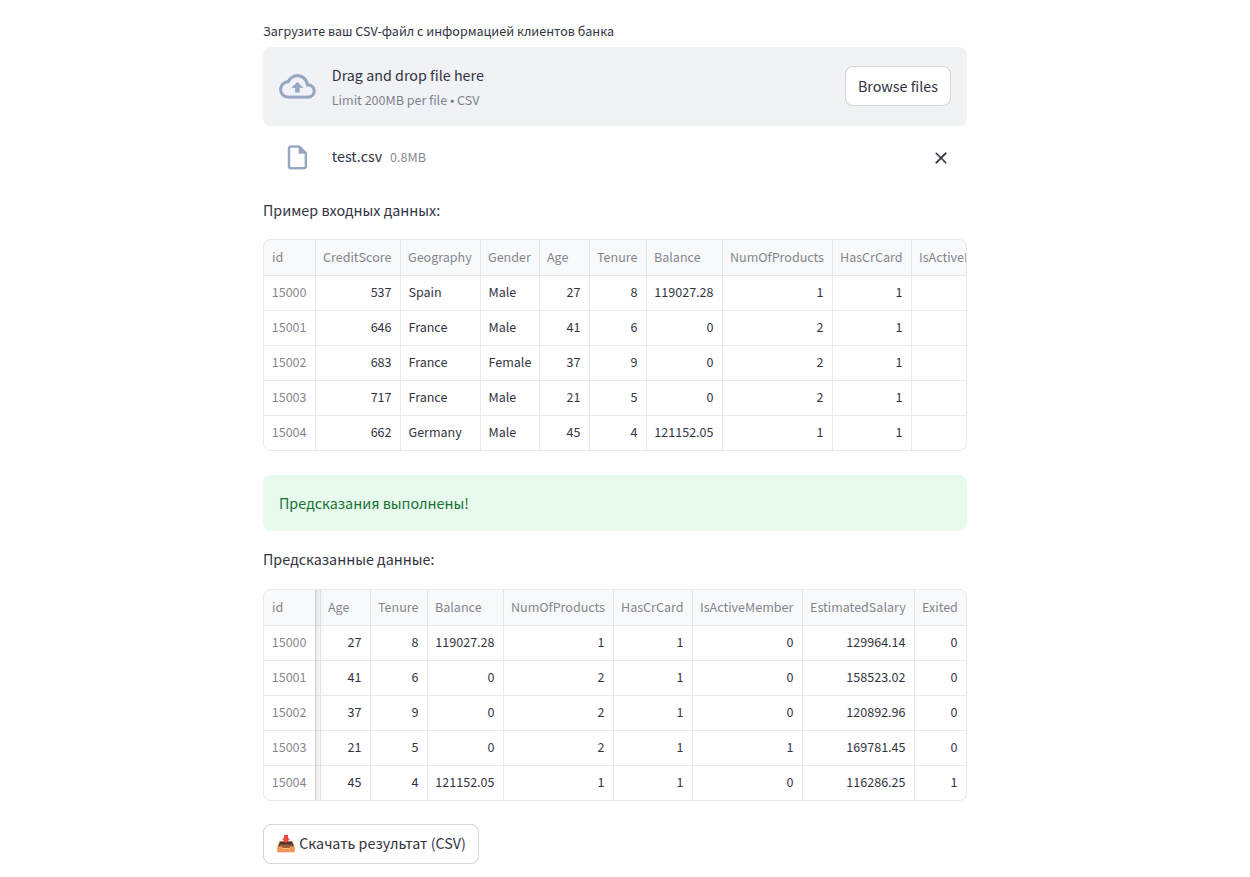
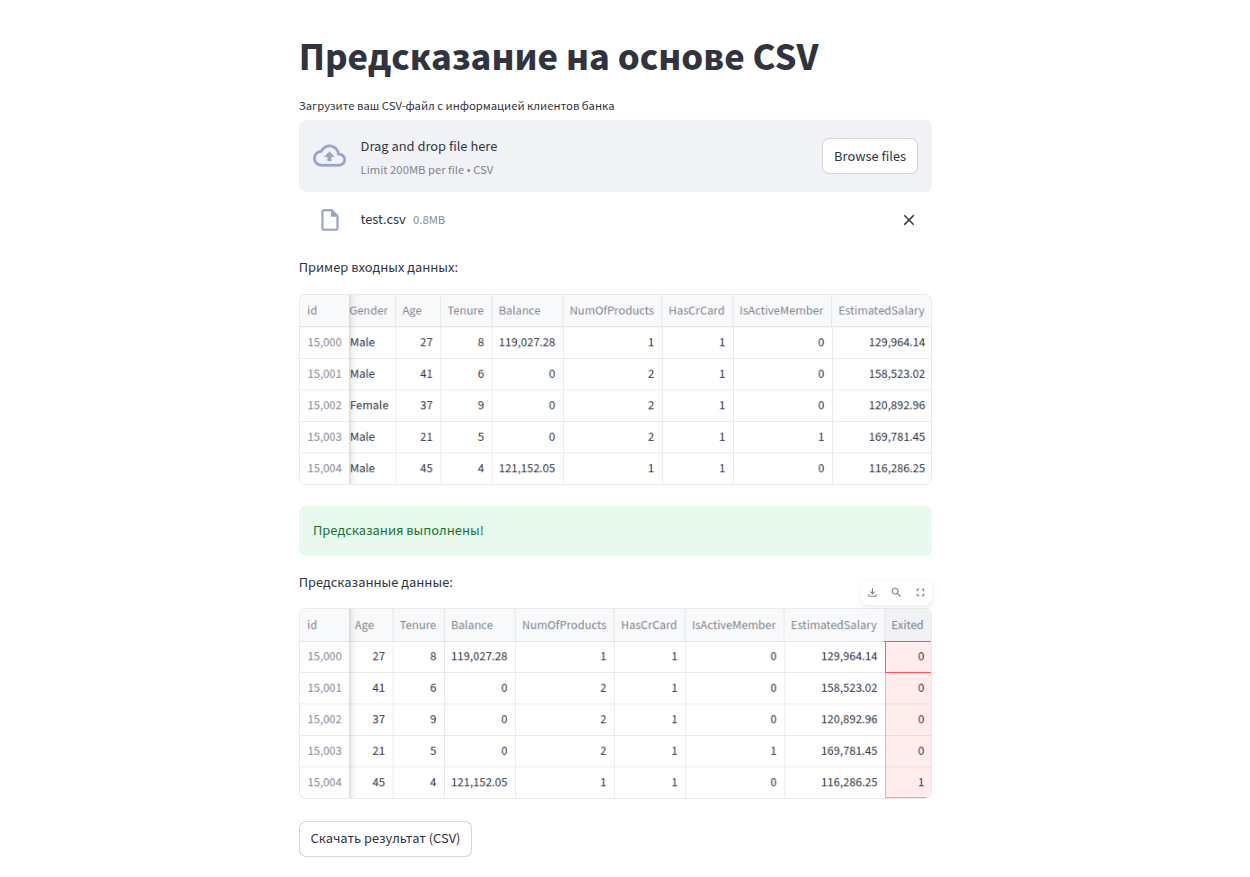
визуальная доработка

diff --git a/app/app.py b/app/app.py
@@ -36,7 +36,7 @@ if uploaded_file is not None:
         # Сохранение в память
         csv_out = df.to_csv(index=False).encode("utf-8")
         st.download_button(
-            label="📥 Скачать результат (CSV)",
+            label="Скачать результат (CSV)",
             data=csv_out,
             file_name="predictions.csv",
             mime="text/csv"
